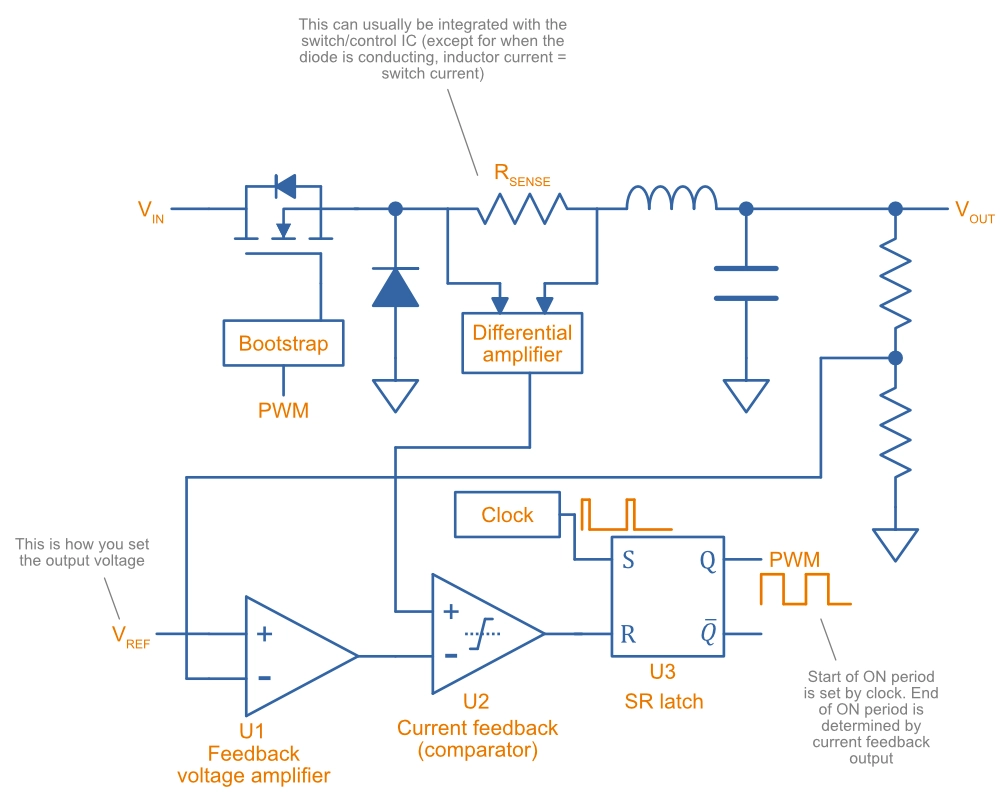
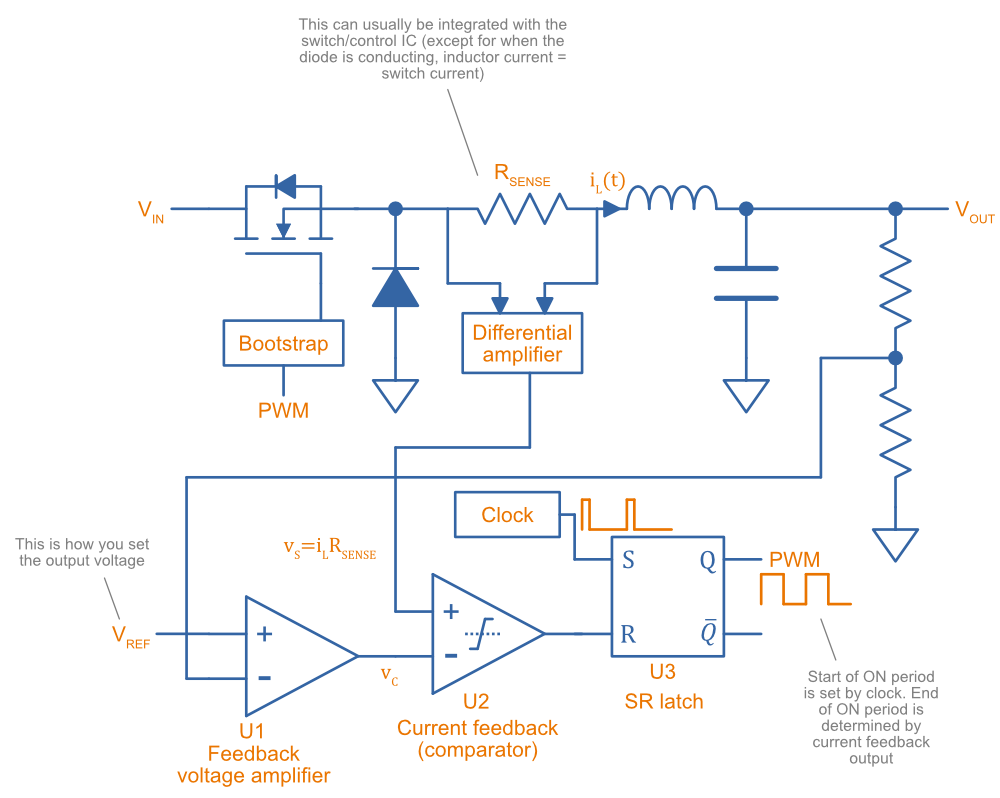
Added more info on SMPS control methodologies.

diff --git a/content/electronics/components/power-regulators/switch-mode-power-supplies-smps/control-methodologies/_index.md b/content/electronics/components/power-regulators/switch-mode-power-supplies-smps/control-methodologies/_index.md
@@ -15,15 +15,32 @@ type: page
 
 ## Overview
 
-Switching power supplies (PSUs) generally have to have some sort of feedback-based control loop to regulate the output to the desired voltage (or current). This is called the _control methodology_. There are a few important types of control methodologies that we will cover on this page.
+[Switch-mode power supplies](/electronics/components/power-regulators/switch-mode-power-supplies-smps/) (SMPS) generally have to have some sort of feedback-based control loop to regulate the output to the desired voltage (or current). This is called the _control methodology_. There are a few important types of control methodologies that we will cover on this page.
 
 {{% aside type="info" %}}
-Although most of the examples on this page use a buck converter, the control methodologies are similarly applicable to other topologies such as boost converters.
+This page assumes a working knowledge of a few basic switch-mode power supplies such as [buck converters](/electronics/components/power-regulators/switch-mode-power-supplies-smps/buck-converters/) and [boost converters](/electronics/components/power-regulators/switch-mode-power-supplies-smps/boost-converters/). If you feel a little lost, please read the linked pages first.
 {{% /aside %}}
 
 ## Voltage Mode Control
 
-_Voltage mode control_ (a.k.a. duty-cycle control[^ti-slva636-feedback-loop-analysis-current-mode-boost-converter]) uses a scaled version of the output voltage (e.g. resistor divider) as the feedback.
+_Voltage mode control_ (a.k.a. duty-cycle control[^ti-slva636-feedback-loop-analysis-current-mode-boost-converter]) uses the difference between the actual and desired output voltage to control the average voltage applied across the inductor (done by modifying the duty cycle). Due to it's simplicity, it was the first methodology used to control SMPSs[^microchip-classic-analog-smps-control-techniques].
+
+{{% figure src="voltage-mode-control-diagram.webp" width="700px" caption="Diagram showing the basic (simplified) feedback circuitry that makes up voltage mode control. No gain resistors or compensation shown." %}}
+
+{{% aside type="info" %}}
+Although most of the examples on this page use a [buck converter](/electronics/components/power-regulators/switch-mode-power-supplies-smps/buck-converters/), the control methodologies are similarly applicable to other topologies such as [boost converters](/electronics/components/power-regulators/switch-mode-power-supplies-smps/boost-converters/).
+{{% /aside %}}
+
+**Advantages of voltage mode control:**
+
+* Simple feedback componentry.
+* Resistant to noise.
+
+**Disadvantages of voltage mode control:**
+
+* Slow to respond to load changes.
+* Slow to respond to input voltage changes.
+* No built-in current limiting.
 
 One big disadvantage of voltage mode control is that the SMPS can only respond to changes once it senses a error in the output voltage and propagates through the entire feedback path. This can lead an unacceptably slow response in systems with fast transients[^ti-sboa187e-current-mode-control].
 
@@ -31,16 +48,24 @@ Another problem with voltage mode control is that the feedback compensation is r
 
 ## Current Mode Control
 
-_Current mode control_ (a.k.a. _current-programmed mode_, _current-injected control_[^ti-slva636-feedback-loop-analysis-current-mode-boost-converter]) was introduced to the power electronics community in the early 1980s[^ti-slva636-feedback-loop-analysis-current-mode-boost-converter] and attempts to improve on some of voltage mode controls shortcomings by adding a second, "inner" and fast feedback loop by monitoring the inductor current. The outer feedback loop monitoring the output voltage (like in voltage mode control) is still present (we still need to know what our target is), but rather than this controlling the switch, the output voltage feedback is passed to the current feedback, and the output of the current feedback is what controls the switch.
+_Current mode control_ (a.k.a. _current-programmed mode_, _current-injected control_[^ti-slva636-feedback-loop-analysis-current-mode-boost-converter]) uses the difference between the actual and desired output voltage to control the current through the inductor, usually the peak current (called _peak current mode control_).
 
-These two feedback systems make up an _inner_ and _outer_ feedback loop:
+Current mode control was introduced to the power electronics community in the early 1980s[^ti-slva636-feedback-loop-analysis-current-mode-boost-converter] and attempts to improve on some of voltage mode controls shortcomings by adding a second, "inner" and fast feedback loop by monitoring the inductor current. The outer feedback loop monitoring the output voltage (like in voltage mode control) is still present (we still need to know what our target is), but rather than this controlling the switch, the output voltage feedback is passed to the current feedback, and the output of the current feedback is what controls the switch.
 
-* Inner loop: Sets the ON time of the switching cycle based on the sensed inductor/switch current.
-* Outer loop: Sets the control input of the inner loop based on the output voltage.
+**Advantages of current mode control:**
+
+* Fast response time due to having a single pole (voltage mode control has two poles).
+* Responds immediately to input voltage changes.
+* Built-in cycle-by-cycle current limiting.
+
+**Disadvantages of current mode control:**
+
+* More complex feedback circuitry.
+* More sensitive to noise.
 
 ### Peak Current Mode Control
 
-_Peak Current Mode Control_ (PCMC) is a specific type of current mode control which **senses the peak current flowing through the inductor**. The peak current through the inductor (and consequentially, the switch) is limited by a control signal `\(i_C (t)\)` which in turn is generated by amplifying the difference between the output voltage feedback and the reference voltage `\(V_{REF}\)`.
+_Peak Current Mode Control_ (PCMC) is a specific type of current mode control which **senses the peak current flowing through the inductor**. The peak current through the inductor (and consequentially, the switch) is limited by a control signal `\(v_C (t)\)` which in turn is generated by amplifying the difference between the output voltage feedback and the reference voltage `\(V_{REF}\)`.
 
 The below diagram shows what this looks like during continuous conduction:
 
@@ -69,11 +94,11 @@ Bootstrap/MOSFET drive circuitry is usually needed between the SR latch and the 
 
 Many off-the-shelf ICs will contain both the switch and the current-sensing directly in the IC, removing the need for a separate `\(R_{SENSE}\)` and associated differential amplifier to measure the current.
 
-Peak current-mode control can experience subharmonic oscillation. Ramp compensation is usually added to address this issue[^ti-slva636-feedback-loop-analysis-current-mode-boost-converter].
+Peak current-mode control can experience subharmonic (a.k.a. sub-cycle[^microchip-classic-analog-smps-control-techniques]) oscillation when the duty cycle increases over 50%. Slope compensation (ramp compensation) is usually added to address this issue[^ti-slva636-feedback-loop-analysis-current-mode-boost-converter]. Slope compensation decreases the peak current limit as the duty cycle increases, with the aim of maintaining the same average current with increasing duty cycles[^microchip-classic-analog-smps-control-techniques].
 
 #### Noise Issues and Blanking Intervals
 
-Because the switching action causes noise, and the current-measuring voltage signal is usually low (because low-valued resistors are used to keep power dissipation down), current mode control has a high susceptibility to noise and voltage transients[^ti-sboa187e-current-mode-control] [^university-of-colorado-bolder-intro-to-peak-current-mode-control]. The switching action can cause ringing in the voltage measurement of the current at the point of turn on. This ringing can cause the measured signal to go over the control threshold and prematurely turn the switch OFF, as shown in the below diagram:
+Because the switching action causes noise, and the current-measuring voltage signal is usually low (because low-valued resistors (`\(10{-}200m\Omega\)`) are used to keep power dissipation down), current mode control has a high susceptibility to noise and voltage transients[^ti-sboa187e-current-mode-control] [^university-of-colorado-bolder-intro-to-peak-current-mode-control]. The switching action can cause ringing in the voltage measurement of the current at the point of turn on. This ringing can cause the measured signal to go over the control threshold and prematurely turn the switch OFF, as shown in the below diagram:
 
 {{% figure src="peak-current-mode-control-noise.webp" width="500px" caption="Diagram showing how switching noise can prematurely turn the switch OFF, and how a blanking interval can be used to improve the noise immunity." %}}
 
@@ -87,9 +112,15 @@ The YouTube video [Introduction to Peak Current Mode Control by the University o
 
 If you want to get right into the control theory of current-mode control, the [Texas Instruments Understanding and Applying Current-Mode Control Theory](https://www.ti.com/lit/an/snva555/snva555.pdf) is a recommended read[^ti-snva555-current-mode-control-theory].
 
+Average current mode control (as opposed to the more common peak mode control) is explained in depth in [Unitrode's Application Note "Average Current Mode Control of Switching Power Supplies" by Lloyd Dixon](https://www.ti.com/lit/an/slua079/slua079.pdf)[^unitrode-average-current-mode-control-of-smps].
+
+{{% figure src="average-current-mode-control-screenshot.png" width="500px" caption="Screenshot from Unitrode's Application Note \"Average Current Mode Control of Switching Power Supplies\" by Lloyd Dixon[^unitrode-average-current-mode-control-of-smps]." %}}
+
 ## References
 
-[^ti-sboa187e-current-mode-control]: Texas Instruments (2020, Dec). _Application Brief - Current Mode Control in Switching Power Supplies_. Retrieved 2023-06-18, from https://www.ti.com/lit/an/sboa187e/sboa187e.pdf.
-[^university-of-colorado-bolder-intro-to-peak-current-mode-control]: University of Colorado Bolder (2020, Aug 7). _Introduction to Peak Current Mode Control (video)_. YouTube. Retrieved 2023-06-18, from https://www.youtube.com/watch?v=3tTSMDEyVKc.
+[^ti-sboa187e-current-mode-control]: Texas Instruments (2020, Dec). _Current Mode Control in Switching Power Supplies_ [Application Brief]. Retrieved 2023-06-18, from https://www.ti.com/lit/an/sboa187e/sboa187e.pdf.
+[^university-of-colorado-bolder-intro-to-peak-current-mode-control]: University of Colorado Bolder (2020, Aug 7). _Introduction to Peak Current Mode Control_ [Video]. YouTube. Retrieved 2023-06-18, from https://www.youtube.com/watch?v=3tTSMDEyVKc.
 [^ti-snva555-current-mode-control-theory]: Texas Instruments (2007, Oct 31). _Understanding and Applying Current-Mode Control Theory_. Retrieved 2023-06-18, from https://www.ti.com/lit/an/snva555/snva555.pdf.
-[^ti-slva636-feedback-loop-analysis-current-mode-boost-converter]: SW Lee (2014, Mar). _SLVA636 - Application Report - Practical Feedback Loop Analysis for Current-Mode Boost Converter_. Texas Instruments. Retrieved 2023-06-19, from https://www.ti.com/lit/an/slva636/slva636.pdf.
+[^ti-slva636-feedback-loop-analysis-current-mode-boost-converter]: SW Lee (2014, Mar). _SLVA636 - Practical Feedback Loop Analysis for Current-Mode Boost Converter_ [Application Report]. Texas Instruments. Retrieved 2023-06-19, from https://www.ti.com/lit/an/slva636/slva636.pdf.
+[^microchip-classic-analog-smps-control-techniques]: Mirochip. _Introduction to SMPS Control Techniques_ [Webinar as PDF]. Retrieved 2023-06-20, from https://www.microchip.com/stellent/groups/sitecomm_sg/documents/training_tutorials/en527885.pdf.
+[^unitrode-average-current-mode-control-of-smps]: Lloyd Dixon. _Average Current Mode Control of Switching Power Supplies_ [Application Note]. Retrieved 2023-06-20, from https://www.ti.com/lit/an/slua079/slua079.pdf.

diff --git a/content/tests/markdown/_index.md b/content/tests/markdown/_index.md
@@ -254,4 +254,10 @@ This is another footnote[^foot-2].
 
 References, authors, related content and tags sections should be below (in that order).
 
+* Application note[^ti-sboa187e-current-mode-control].
+* Video reference[^university-of-colorado-bolder-intro-to-peak-current-mode-control].
+
 ## References
+
+[^university-of-colorado-bolder-intro-to-peak-current-mode-control]: University of Colorado Bolder (2020, Aug 7). _Introduction to Peak Current Mode Control_ [Video]. YouTube. Retrieved 2023-06-18, from https://www.youtube.com/watch?v=3tTSMDEyVKc.
+[^ti-sboa187e-current-mode-control]: Texas Instruments (2020, Dec). _Current Mode Control in Switching Power Supplies_ [Application Note]. Retrieved 2023-06-18, from https://www.ti.com/lit/an/sboa187e/sboa187e.pdf.
